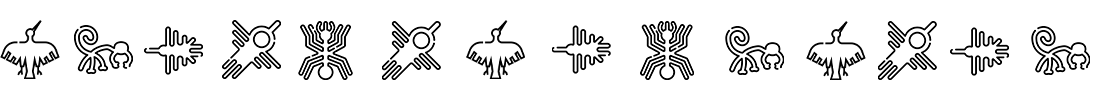
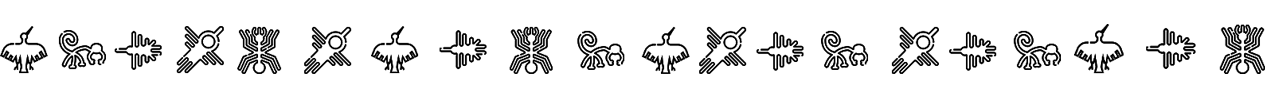
separadores actualizados

Changed region(s): [[0.0, 0.21, 1.0, 0.81]]

diff --git a/src/app/pages/about-us/about-us.component.scss b/src/app/pages/about-us/about-us.component.scss
@@ -179,7 +179,15 @@ body {
     }
   }
 }
+.reseña{
+  height: 100%;
+  padding: 3% 12% 0%;
+}
 
+.galery{
+  height: 100%;
+  padding: 3% 12% 0%;
+}
 .carousel-container {
   height: 100%;
   padding: 3% 12% 3%;
@@ -187,7 +195,6 @@ body {
   h4 {
     margin-top: 3%;
     text-align: start;
-    margin-left: 1%;
     font-size: 16px;
     color: #2e2e2e;
 
@@ -199,7 +206,7 @@ body {
 }
   @media (min-width: 1600px) {
     .carousel-container {
-      padding: 3% 17% 3%;
+      padding: 3% 12% 3%;
     }
   }
 
@@ -361,6 +368,7 @@ body {
           width: 200px;
           height: 250px;
           border-radius: 10px;
+
       }
   }
 }
@@ -439,20 +447,28 @@ body {
   margin-top: 3%;
   width: 100%;
   height: 100px;
-  background-image: url('/assets/images/line.png');
+//  background-image: url('/assets/images/line.png');
   background-size: cover;
   background-position: center;
   background-repeat: no-repeat;
-  opacity: 0.5;
+  opacity: 0.7;
+
+  .separator-img {
+    width: 100%;
+    height: auto;
+    display: block; // Para evitar espacios debajo de la imagen
+    opacity: 0.5;
+  }
+
+
   @media (min-width: 1600px) {
     height: 120px;
 }
 }
 .part-sections1 {
-  width: 80%;
+  width: 100%;
   margin-top: 3%;
   margin-bottom: 3%;
-  margin-left: 10%;
   height: 100px;
   background-image: url('/assets/images/separator-nazca1.png');
   background-size: cover;
@@ -460,9 +476,8 @@ body {
   background-repeat: no-repeat;
   opacity: 0.5;
   @media (min-width: 1600px) {
-    width: 60%;
+    width: 100%;
     margin-top: 2%;
-    margin-left: 20%;
     height: 120px;
     background-image: url('/assets/images/separator-nazca1.png');
     background-size: cover;
@@ -474,4 +489,5 @@ body {
 .air{
   width: 380px;
   height: auto;
+  opacity: 0.5;
 }

diff --git a/src/app/pages/about-us/about-us.component.html b/src/app/pages/about-us/about-us.component.html
@@ -67,14 +67,21 @@
 </div>
 
 <div class="part-sections1"></div>
+<div class="reseña">
+  <app-reviws [reviews]="reviewList"></app-reviws>
+</div>
+<div class="part-sections">
+  <img src="/assets/images/separador4.png" alt="Separador" class="separator-img">
+</div>
+
+<div class="galery">
+  <app-gallery></app-gallery>
+</div>
+<div class="part-sections">
+  <img src="/assets/images/separador-i.png" alt="Separador" class="separator-img">
+</div>
 
 <div class="carousel-container">
- <div class="reseña">
-   <app-reviws [reviews]="reviewList"></app-reviws>
- </div>
-<div class="part-sections"></div>
-<app-gallery></app-gallery>
-<div class="part-sections"></div>
 
     <h4>Nuestros Socios Estratégicos</h4>
   <p>
@@ -86,7 +93,6 @@
     [autoRotate]="true"
     [rotationInterval]="3000"
   ></app-carousel>
-  <div class="part-sections"></div>
   <h4>Impulsados por:</h4>
   <p>
     A lo largo de nuestra trayectoria en la industria del turismo, hemos tenido el privilegio de contar con el respaldo de las siguientes empresas.

diff --git a/src/app/shared/components/carousel/carousel.component.scss b/src/app/shared/components/carousel/carousel.component.scss
@@ -70,8 +70,13 @@
 
 .carousel-item {
   flex: 0 0 calc(100% / 4); // Para mostrar 4 items
-  padding: 10px;
+  padding: 10px 40px !important;
   text-align: center;
+
+  @media (max-width: 1920px) {
+      padding: 10px 60px;
+  }
+
 
   @media (max-width: 768px) { // Pantallas más pequeñas
     flex: 0 0 calc(100% / 1); // Mostrar 2 items

diff --git a/src/styles.scss b/src/styles.scss
@@ -16,7 +16,7 @@
   width: 0;
   height: 0;
 }
-.nav-content,.know-content, .history-content, .vision-mision,
+.nav-content,.know-content, .history-content, .vision-mision,.reseña,
 .Esencia-content, .carousel-container, .banner-slogan, .footer-container,.content {
   font-family: 'Montserrat';
   font-size: 16px;
